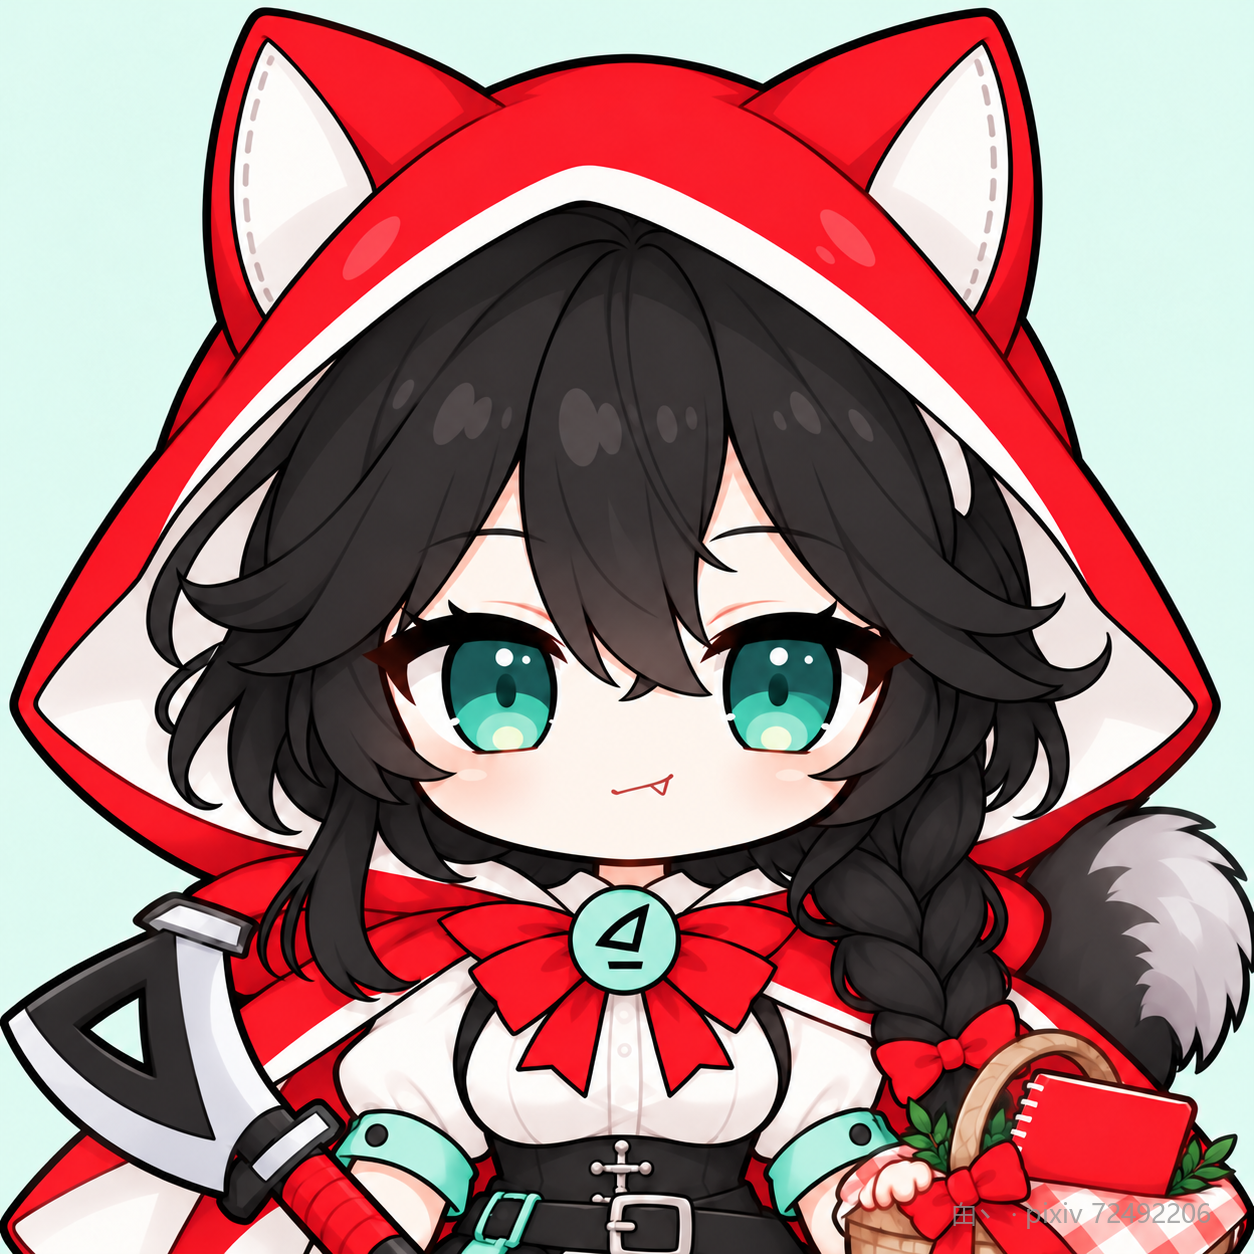
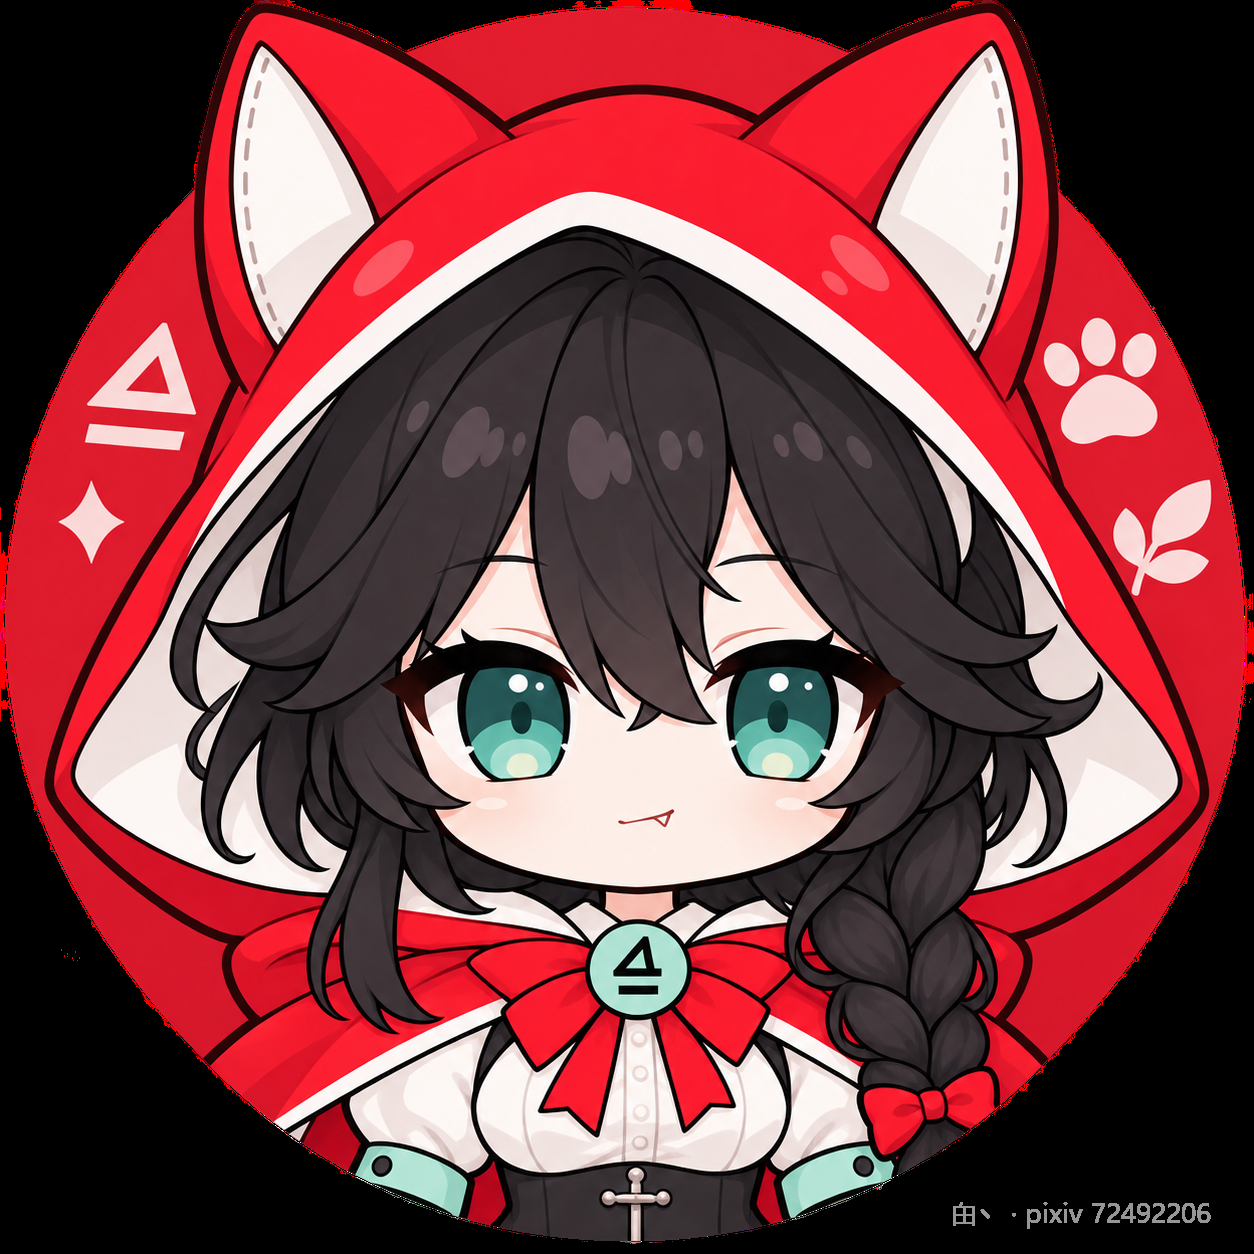
v1.4：Ling 与 Unisound 补齐 13 张；头像统一圆徽章；Codex 补 Q 版/头像
- Ling：+Q版 b、头像 a（重出）/b、补充设定；三视图换成分视角拼接版 ×2 → 13 张
- Unisound：+Q版 a/b、头像 a（重出）/b、补充设定；三视图换成分视角拼接版 ×2 → 13 张
- Codex：+Q版 b、头像 b → 现 7 张，只差奇幻侧
- MiMo 兔娘 / 点点：头像重出为圆徽章版式（大圆、圆内头肩、圆外纯白、圆底同色淡纹样）
- 单张出图的旧三视图全部撤下（不符合「分视角单独生成再拼接」规格）
- 现状 7 角色 / 86 张；_清单.json 与 _md5.txt 重建，全部图片带右下角水印

diff --git a/README.md b/README.md
@@ -26,22 +26,18 @@
 | 角色 | 对应品牌 | 物料 | 状态 |
 |---|---|---:|---|
 | **MOSS 娘** | MOSS 大模型 | 13 | ✅ 13 张齐（另有 15 秒 Q 版 PV）|
-| **MiMo 兔娘** | 小米 MiMo | 14 | ✅ 齐；**头像待更新** |
+| **MiMo 兔娘** | 小米 MiMo | 14 | ✅ 齐（另有 1 张圆头像；头像已统一为圆徽章版式）|
 | **LongCat 娘** | 美团 LongCat（龙猫）| 13 | ✅ 13 张齐 |
-| **点点** | 小红书「点点」| 13 | ✅ 齐；**头像待更新** |
-| **Codex 娘** | OpenAI Codex | 5 | 🟡 缺 Q 版、头像 |
-| **Ling（蚂蚁百灵）** | 蚂蚁集团 百灵 | 8 | 🟡 缺三视图、补充设定；Q 版 1/2、头像 1/2 |
-| **Unisound 娘** | 云知声 | 7 | 🟡 缺三视图、补充设定、Q 版；头像 1/2 |
+| **点点** | 小红书「点点」| 13 | ✅ 13 张齐（头像已统一为圆徽章版式）|
+| **Codex 娘** | OpenAI Codex | 7 | 🟡 目前只有科技侧；缺奇幻侧 |
+| **Ling（蚂蚁百灵）** | 蚂蚁集团 百灵 | 13 | ✅ 13 张齐 |
+| **Unisound 娘** | 云知声 | 13 | ✅ 13 张齐 |
 
 ## 待补 / 待统一化
 
 | 角色 | 缺什么 |
 |---|---|
-| **MiMo 兔娘** | **头像待更新**（现有 3 张含一张圆头像，需按统一规格重出） |
-| **点点** | **头像待更新** |
-| **Codex 娘** | Q 版 ×2、头像 ×2 |
-| **Ling（蚂蚁百灵）** | **三视图 ×2**（旧版是单张出图、清晰度不足，已撤下）、补充设定 ×1、Q 版（只有 a）、头像（只有 a） |
-| **Unisound 娘** | **三视图 ×2**（旧版是单张出图、清晰度不足，已撤下）、补充设定 ×1、Q 版 ×2、头像（只有 a） |
+| **Codex 娘** | 奇幻侧：立绘 ×3、三视图 ×1（奇幻服设尚未定稿，暂缓）|
 
 > 只交**符合统一规格**的部分：各角色的 `常服`、`无影立绘`、`_logo`、自定义头像等**非标准分区**素材一律没有纳入，等统一化之后再补。
 > **三视图的规格是「分视角单独生成、再拼接」**——单张出图再裁出来的三视图清晰度不够，不作为正式物料交付。

diff --git a/角色/unisound/设定.md b/角色/unisound/设定.md
@@ -4,19 +4,23 @@
 
 ## 设定要点
 
-云知声。素材尚未收束。**三视图未纳入**——现有两版是单张出图而非分视角单独生成后拼接，清晰度不足，等重做后再补。
+云知声。已收束到 13 张标准包，三视图是**分视角单独生成、再拼接**的版本。
 
-**a / b 两套**：a = 奇幻侧；b = 科技侧
+- 拥有完整身体，可按部位虚化或凝实；**平时漂浮**，需要时双腿凝实，能站立与行走
+- 虚化分界藏在**袖内**与**裙内**：前臂在袖内开始转半透明，膝部在裙内开始转半透明
+- 胸前与兜帽侧各一枚**青绿环形结**，腰带两枚，形状一致、位置可变
+- 道具分两种：**U 形音叉杖**（奇幻侧，右手执）与**特雷门琴**（科技侧，落地支架，直立音高天线 ＋ 椭圆环形音量天线）
+- **a / b 两套**：a = 奇幻侧（白色宽兜帽长袍）；b = 科技侧 / 全息（奶白上衣 ＋ 深蓝裙 ＋ 半透明青绿四肢）
 
-## 物料清单（7 张）
+## 物料清单（13 张）
 
 | 分区 | 张数 |
 |---|---:|
 | 立绘 | 6 |
-| 三视图 | 0 |
-| 补充设定 | 0 |
-| Q版 | 0 |
-| 头像 | 1 |
+| 三视图 | 2 |
+| 补充设定 | 1 |
+| Q版 | 2 |
+| 头像 | 2 |
 
 ## 文件
 
@@ -26,4 +30,10 @@
 - `01_立绘/unisound b 大.png`
 - `01_立绘/unisound b 中.png`
 - `01_立绘/unisound b 小.png`
+- `02_三视图/unisound 三视图 拼接版 奇幻.png`
+- `02_三视图/unisound 三视图 拼接版 全息.png`
+- `03_补充设定/unisound 补充设定.png`
+- `04_Q版/unisound Q版 a.png`
+- `04_Q版/unisound Q版 b.png`
 - `05_头像/unisound 头像 a.png`
+- `05_头像/unisound 头像 b.png`

diff --git a/角色/ling/设定.md b/角色/ling/设定.md
@@ -4,19 +4,22 @@
 
 ## 设定要点
 
-蚂蚁百灵。素材尚未收束到 13 张标准包。**三视图未纳入**——现有两版是单张出图而非分视角单独生成后拼接，清晰度不足，等重做后再补。
+蚂蚁百灵。已收束到 13 张标准包，三视图是**分视角单独生成、再拼接**的版本。
 
-**a / b 两套**：a = 奇幻侧；b = 科技侧
+- 头顶两根黑色触角 ＋ 一个不闭合的黑色圆环；**触角属于身体**，因此头纱为它留有开口
+- 钥匙可开启影子中的门；地上的黑色剪影形体是她的影子，与本体共享意识，影子更坦率
+- 科技侧：外骨骼机械臂与环都挂在中央背架上；另有一件钥匙托盘（双手托于身前）
+- **a / b 两套**：a = 奇幻侧（修女式兜帽长裙）；b = 科技侧（黑紧身衣 ＋ 机械外骨骼）
 
-## 物料清单（8 张）
+## 物料清单（13 张）
 
 | 分区 | 张数 |
 |---|---:|
 | 立绘 | 6 |
-| 三视图 | 0 |
-| 补充设定 | 0 |
-| Q版 | 1 |
-| 头像 | 1 |
+| 三视图 | 2 |
+| 补充设定 | 1 |
+| Q版 | 2 |
+| 头像 | 2 |
 
 ## 文件
 
@@ -26,5 +29,10 @@
 - `01_立绘/ling b 大.png`
 - `01_立绘/ling b 中.png`
 - `01_立绘/ling b 小.png`
+- `02_三视图/ling 三视图 拼接版 奇幻.png`
+- `02_三视图/ling 三视图 拼接版 科技.png`
+- `03_补充设定/ling 补充设定.png`
 - `04_Q版/ling Q版 a.png`
+- `04_Q版/ling Q版 b.png`
 - `05_头像/ling 头像 a.png`
+- `05_头像/ling 头像 b.png`

diff --git a/CHANGELOG.md b/CHANGELOG.md
@@ -2,6 +2,18 @@
 
 格式：日期 · 版本 · 改了什么。物料会继续补齐，引用时建议带版本或日期。
 
+## v1.4 · 2026-11-07
+
+**补齐 Ling 与 Unisound 娘到 13 张标准包；头像统一为圆徽章版式**
+
+- **Ling（蚂蚁百灵）**：新增 Q 版 b、头像 a（重出）、头像 b、补充设定 ×1；三视图换成分视角拼接版 ×2 —— 13 张齐
+- **Unisound 娘（云知声）**：新增 Q 版 a/b、头像 a（重出）、头像 b、补充设定 ×1；三视图换成分视角拼接版 ×2 —— 13 张齐
+- **Codex 娘**：新增 Q 版 b、头像 b —— 现 7 张，只差奇幻侧
+- **MiMo 兔娘 / 点点**：头像重出为**圆徽章版式**（大圆、圆内头肩、圆外纯白、圆底同色淡纹样），旧方图版移入本地备选
+- 三视图统一为「**分视角单独生成再拼接**」版本；单张出图的旧三视图已撤下（不符合本库规格）
+
+**现状**：7 角色 / 86 张。`_清单.json` 与 `_md5.txt` 重建，全部图片右下角带水印。
+
 ## v1.3 · 2026-11-05
 
 **全部图片加右下角水印**

diff --git a/角色/codex/设定.md b/角色/codex/设定.md
@@ -4,19 +4,19 @@
 
 ## 设定要点
 
-机械龙三件（白色分节龙角、机械龙翼、分节机械尾）；深色横条眼屏，屏上符号 ^^ / > / ? / ... 表达情绪；不画嘴唇。三档身高约 145 / 152 / 170 cm。Q 版与头像待补。
+机械龙三件（白色分节龙角、机械龙翼、分节机械尾）；深色横条眼屏，屏上符号 ^^ / > / ? / ... 表达情绪；不画嘴唇。三档身高约 145 / 152 / 170 cm。
 
-**a / b 两套**：b = 科技侧（机械龙少女）。目前只有 b 线
+**a / b 两套**：b = 科技侧（机械龙少女）。奇幻侧（a）服设尚未定稿，暂未收录。
 
-## 物料清单（5 张）
+## 物料清单（7 张）
 
 | 分区 | 张数 |
 |---|---:|
 | 立绘 | 3 |
 | 三视图 | 1 |
 | 补充设定 | 1 |
-| Q版 | 0 |
-| 头像 | 0 |
+| Q版 | 1 |
+| 头像 | 1 |
 
 ## 文件
 
@@ -25,3 +25,5 @@
 - `01_立绘/codex b 小.png`
 - `02_三视图/codex 三视图 科技.png`
 - `03_补充设定/codex 三档对比 科技.png`
+- `04_Q版/codex Q版 b.png`
+- `05_头像/codex 头像 b.png`
